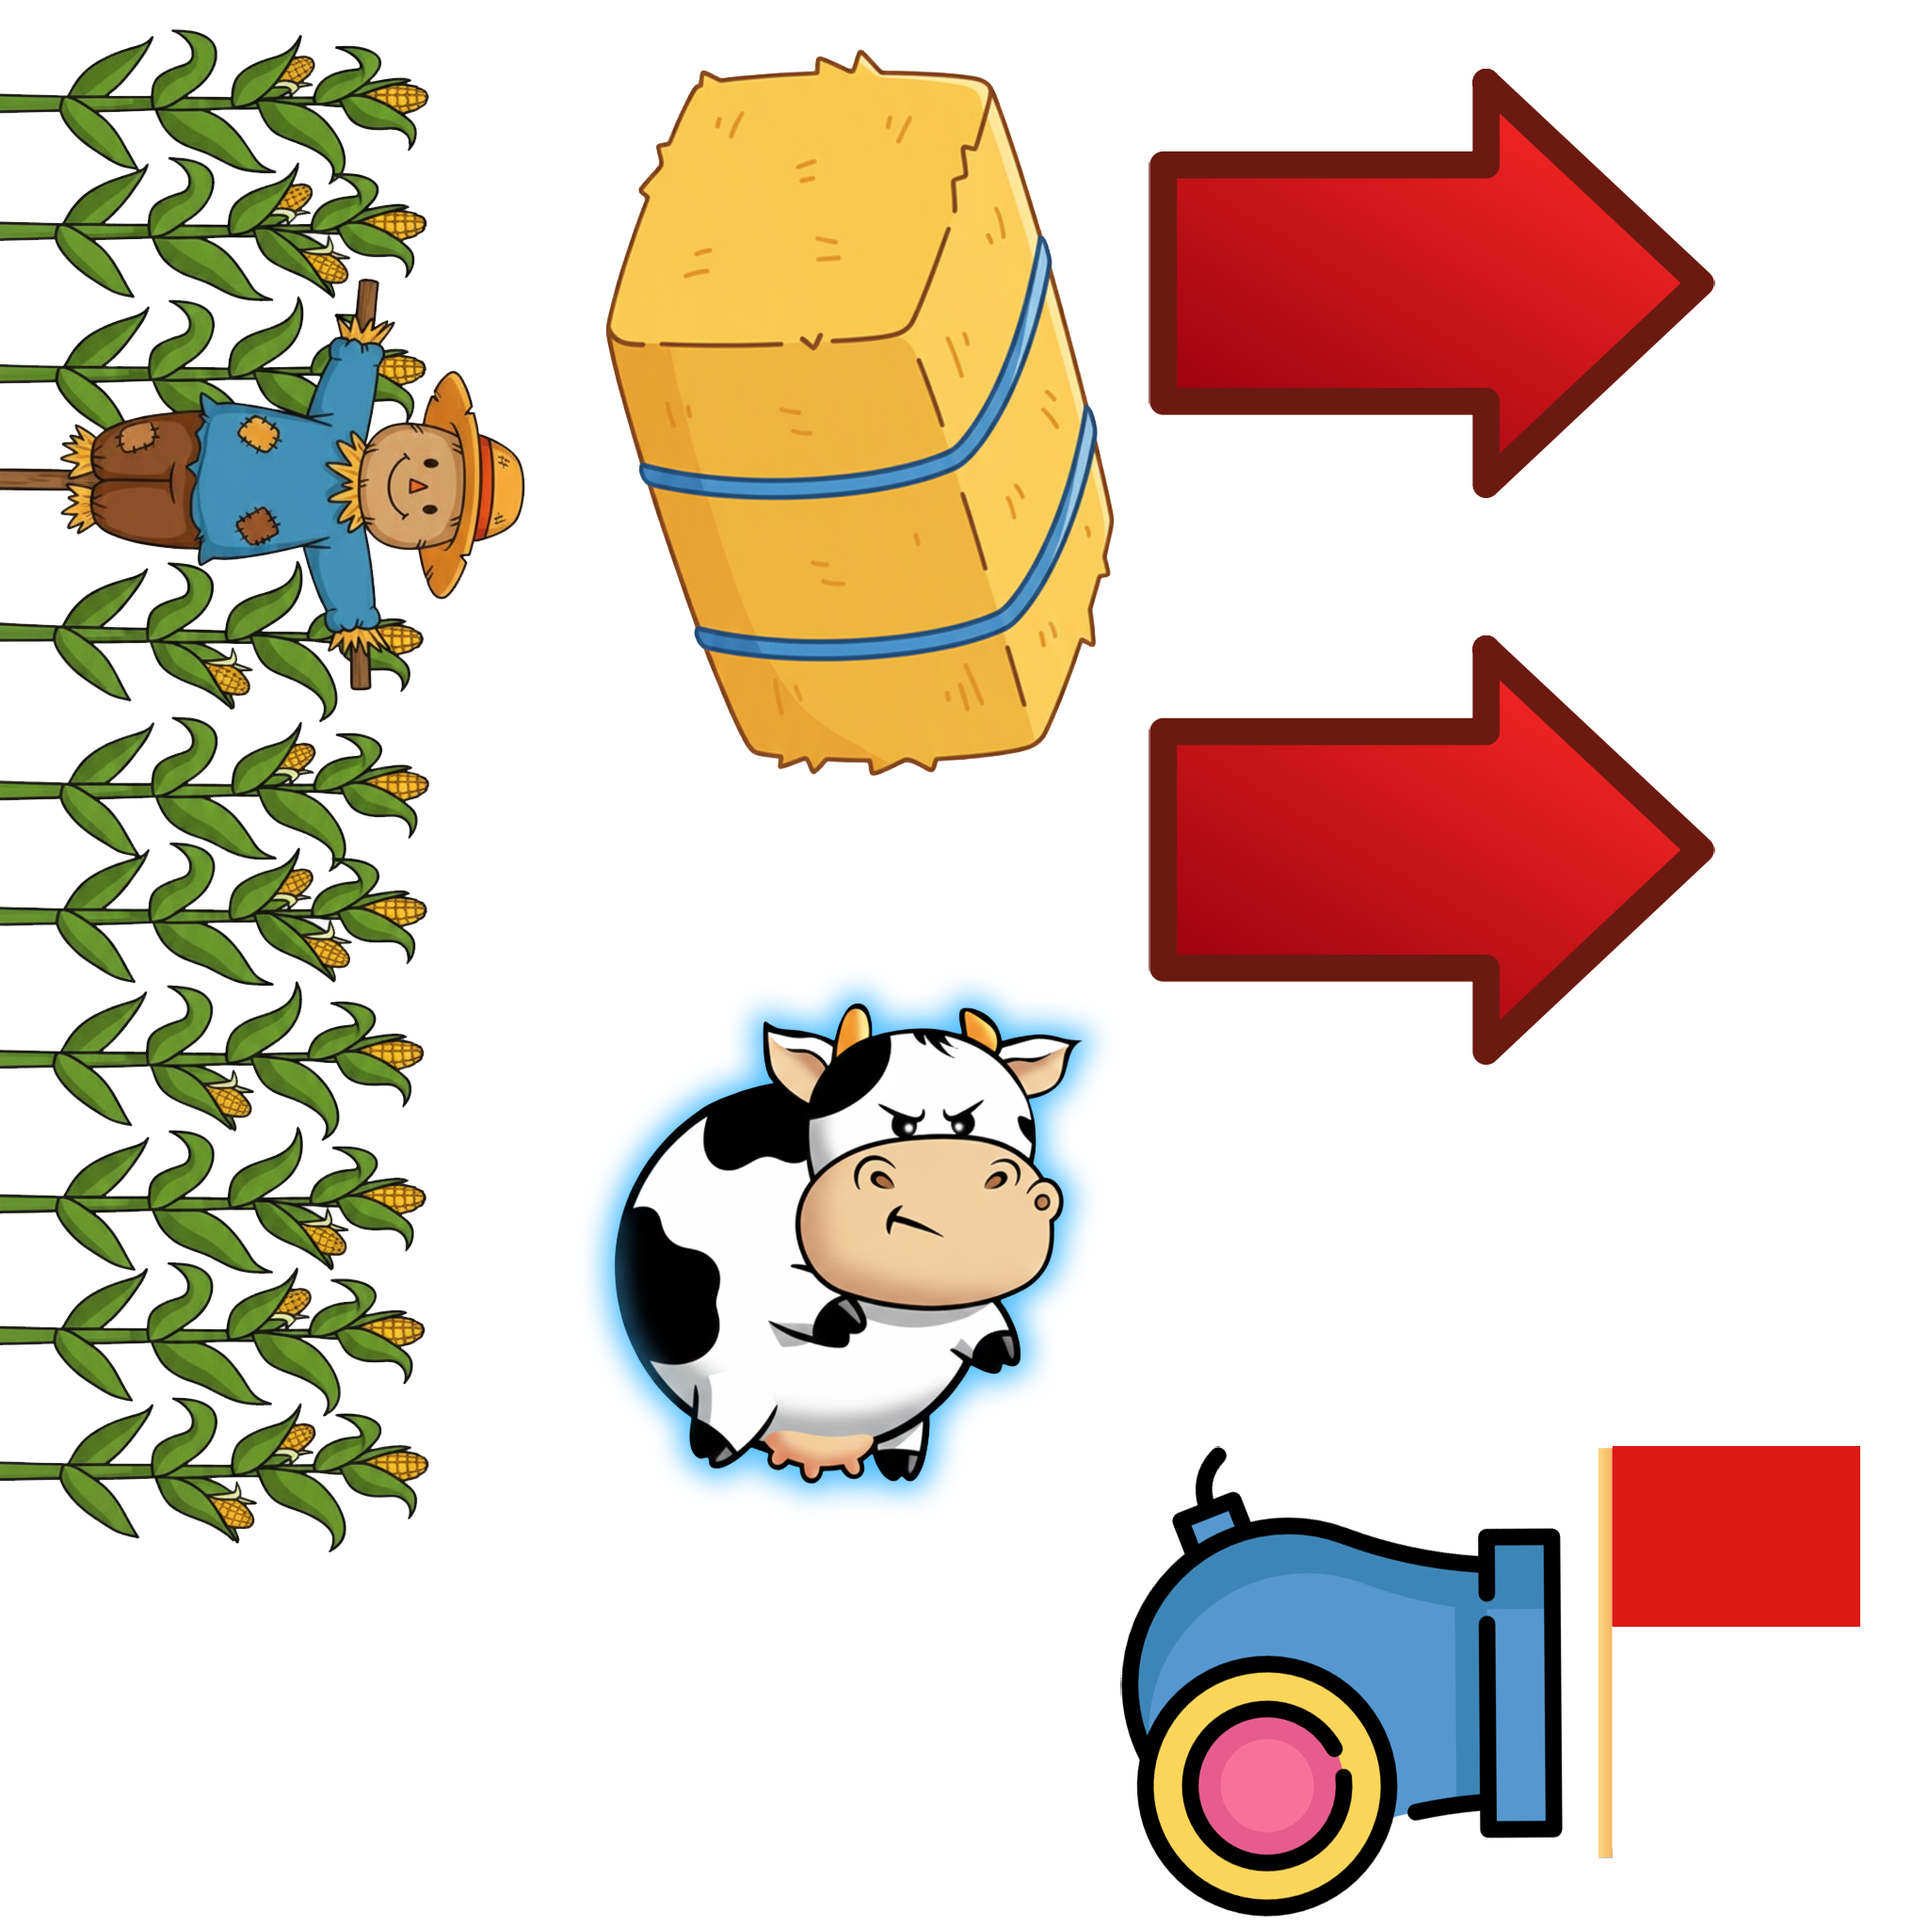
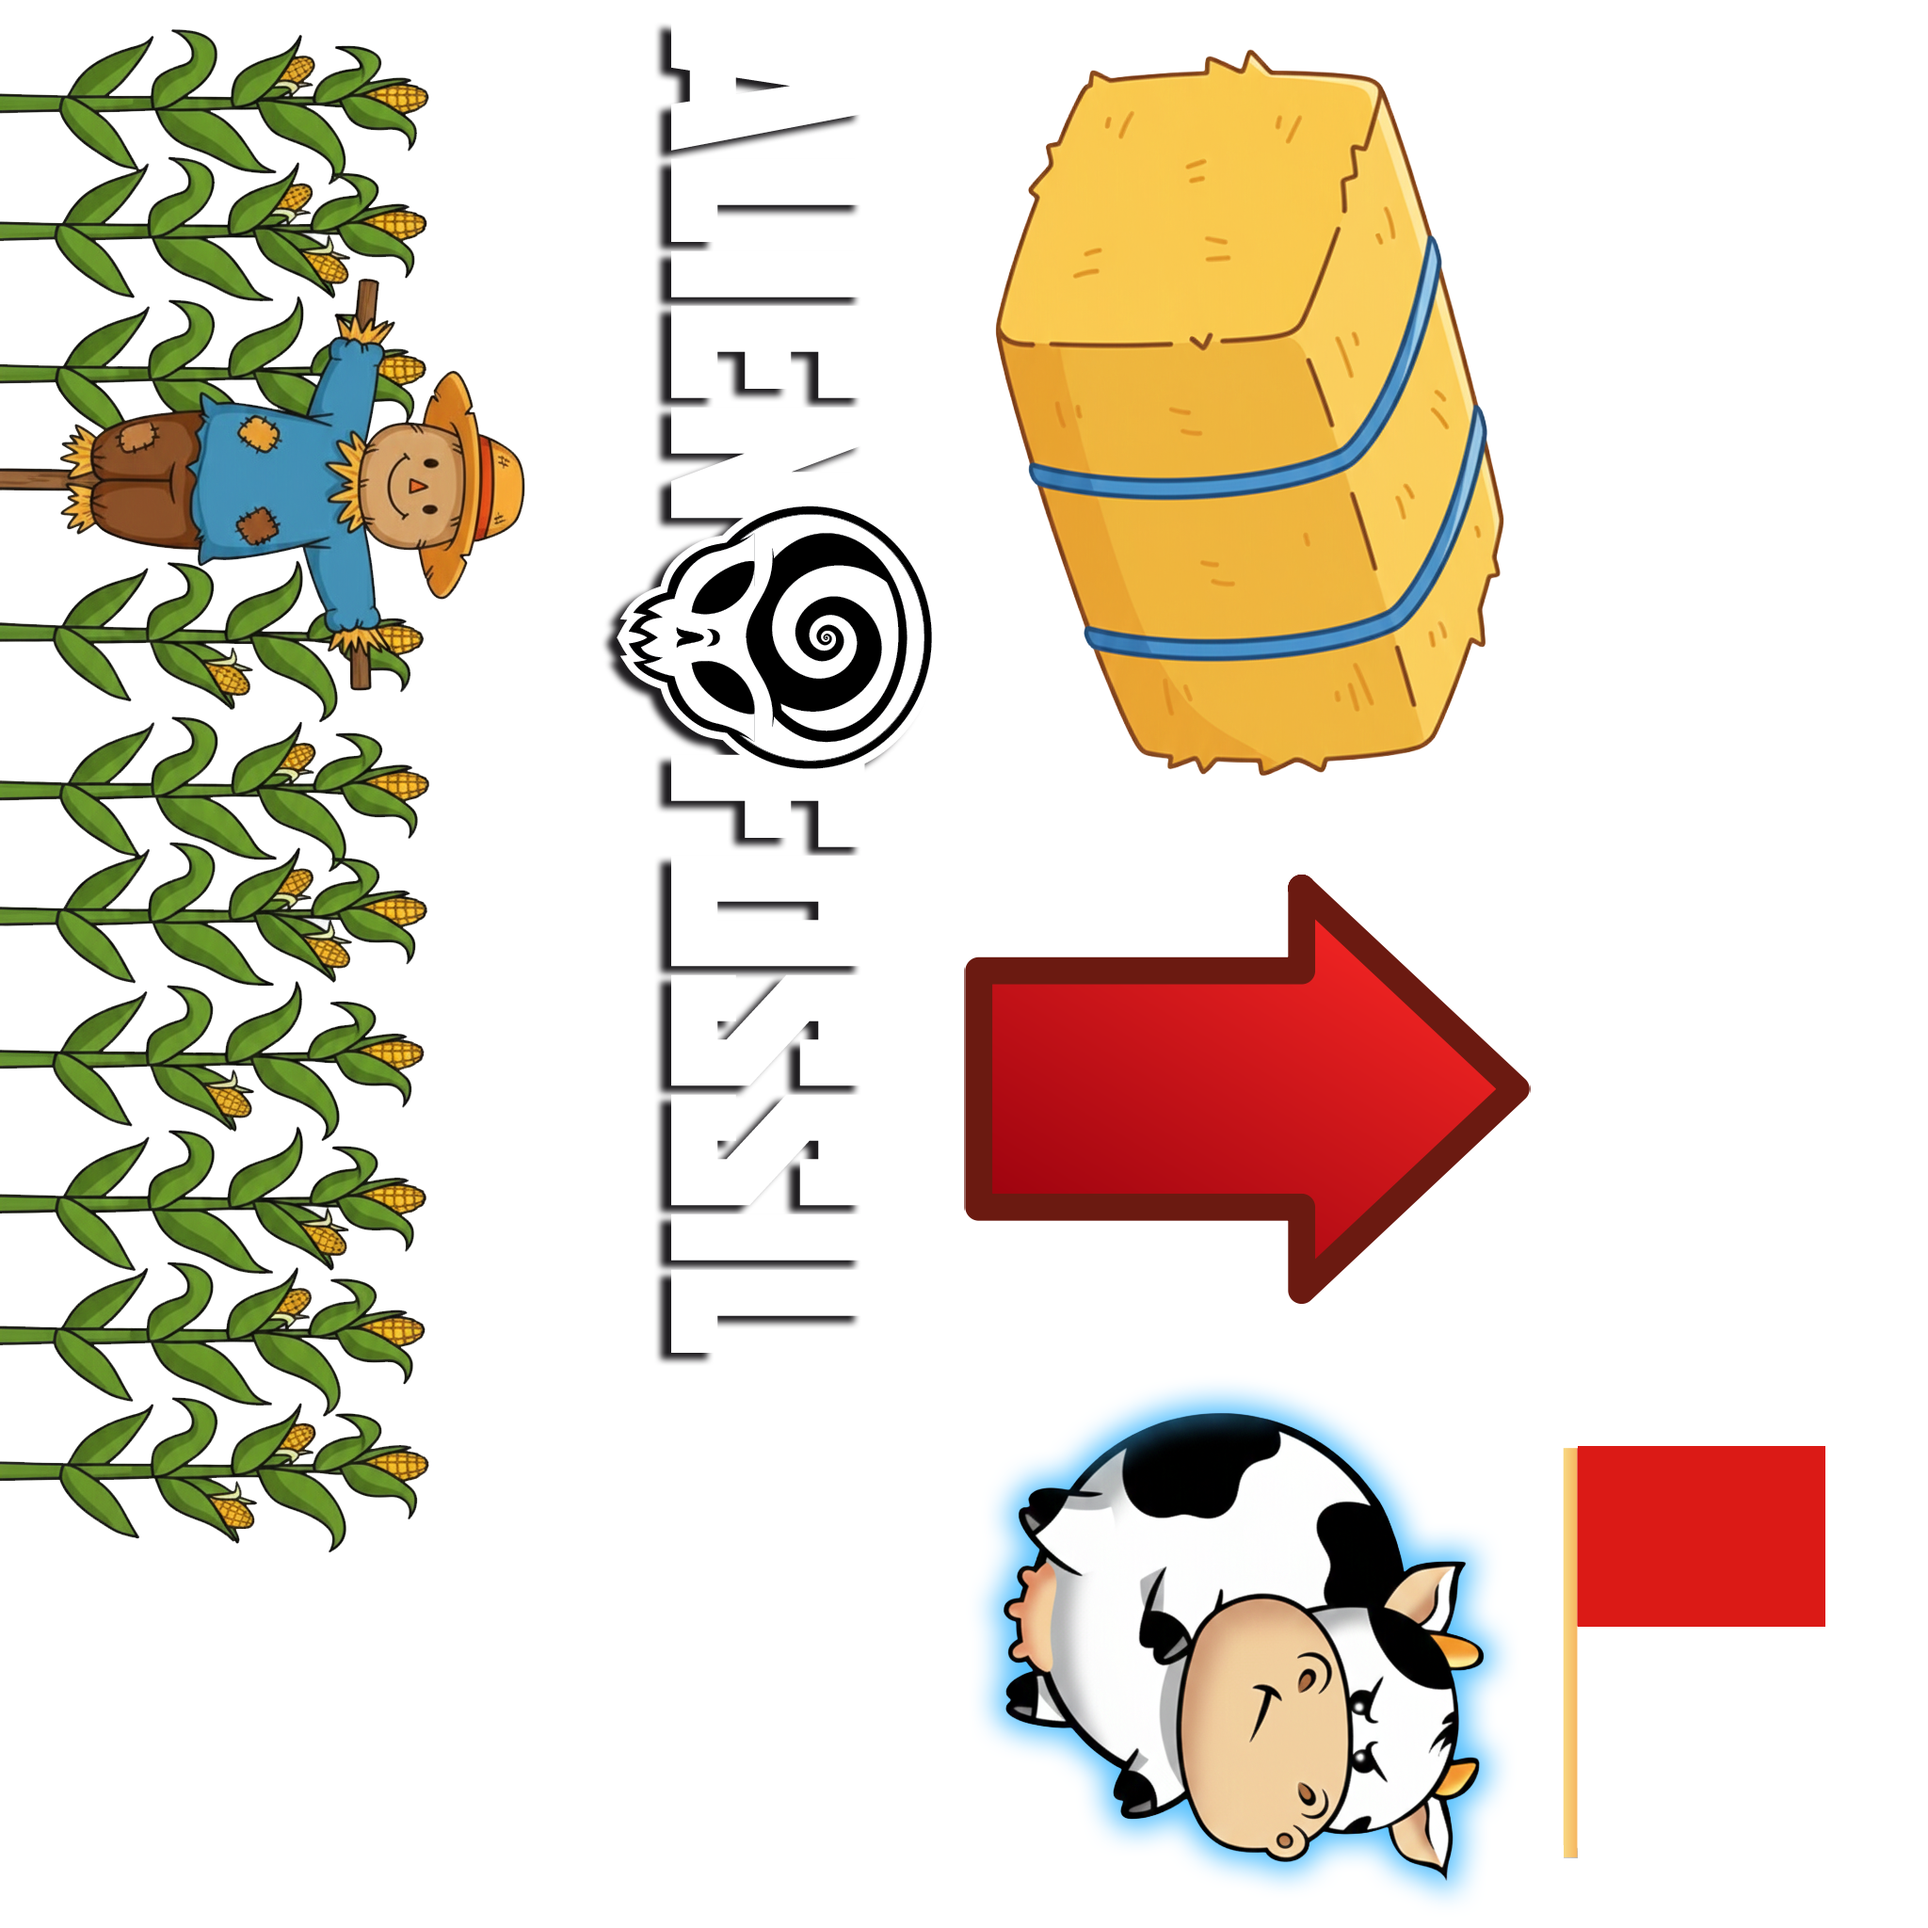
cow cannon update

diff --git a/minigames/CowCannon_v2/scripts/objRefTable.js b/minigames/CowCannon_v2/scripts/objRefTable.js
@@ -81,6 +81,7 @@ self.C3_JsPropNameTable = [
 	{Touch: 0},
 	{UpArrow: 0},
 	{DownArrow: 0},
+	{Logo: 0},
 	{SineVal: 0},
 	{CurrentTurn: 0},
 	{Fired: 0}
@@ -110,5 +111,6 @@ self.InstanceType = {
 	TitleBackground: class extends self.ITiledBackgroundInstance {},
 	Touch: class extends self.IInstance {},
 	UpArrow: class extends self.ISpriteInstance {},
-	DownArrow: class extends self.ISpriteInstance {}
+	DownArrow: class extends self.ISpriteInstance {},
+	Logo: class extends self.ISpriteInstance {}
 }
